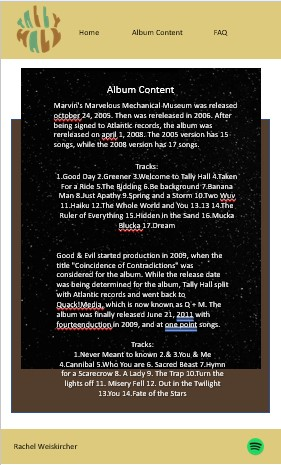
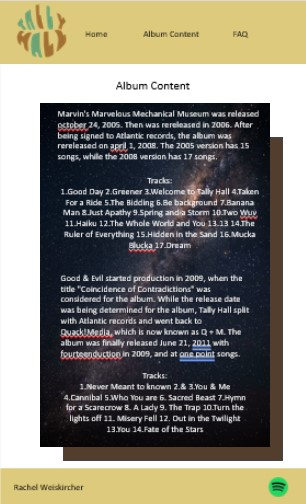
second page

diff --git a/tallyhall/album.html b/tallyhall/album.html
@@ -5,15 +5,15 @@
     <meta charset="UTF-8">
     <meta http-equiv="X-UA-Compatible" content="IE=edge">
     <meta name="viewport" content="width=device-width, initial-scale=1.0">
-    <title>Document</title>
+    <title>Album Content</title>
     <link rel="stylesheet" href="styles/styles.css">
 </head>
 <body>
     <header id="navbar">
-        <a href="index.html">
-            <img src="images/tally_hall_logo_3.jpg" alt="Tally Hall Logo">
+        <a  href="index.html">
+            <img class="logo" src="images/tally_hall_logo_1.png" alt="Tally Hall Logo">
         </a>
-        <nav>
+        <nav >
             <a href="index.html">Home</a>
             <a href="album.html">Album Content</a>
             <a href="faq.html">FAQ</a>
@@ -25,18 +25,63 @@
 
 
 
+<section class="box">
 <div class="album">
-<p>Marvin's Marvelous Mechanical Museum was released october 24, 2005. Then was rereleased in 2006. After being signed to Atlantic records, the album was rereleased on april 1, 2008. The 2005 version has 15 songs, while the 2008 version has 17 songs.</p>
-<h3 class="title">Tracks</h3>
-<p>1.Good Day 2.Greener 3.Welcome to Tally Hall 4.Taken For a Ride 5.The Bidding 6.Be background 7.Banana Man 8.Just Apathy 9.Spring and a Storm 10.Two Wuv 11.Haiku 12.The Whole World and You 13.13 14.The Ruler of Everthing 15.Hidden in the Sand 16.Mucka blucka 17.Dream</p>
 <p></p>
-<p>Good & Evil started production in 2009, and at one point the title "Coincidence of Contradictions" was considered for the album. While the release date was being determined for the album, Tally Hall split with Atlantic records and went back to Quack!Media, which is now known as Q + M. The album was finally released June 21, 2011 with fourteen songs.</p>
-<h3 class="title">Tracks</h3>
-<p>1.Never Meant to known 2.& 3.You & Me 4.Cannibal 5.Who You are 6. Sacred Beast 7.Hymn for a Scarecrow 8. A Lady 9. The Trap 10.Turn the lights off 11. Misery Fell 12. Out in the Twilight 13.You 14.Fate of the Stars</p>
-</div>
+    <p>Marvin's Marvelous Mechanical Museum was released October 24, 2005. Then was rereleased in 2006. After being signed to Atlantic records, the album was rereleased on april 1, 2008. The 2005 version has 15 songs, while the 2008 version has 17 songs.</p>
+<h3 class="tracks">Tracks</h3>
+<section class="track">
+<ol>
+    <li>Good Day </li>
+    <li>Greener</li>
+    <li>Welcome to Tally Hall</li>
+    <li>Taken For a Ride</li>
+    <li>The Bidding </li>
+    <li>Be Born </li>
+    <li>Banana Man </li>
+    <li>Just Apathy </li>
+    <li>Spring and a Storm</li>
+    <li>Two Wuv </li>
+    <li>Haiku </li>
+    <li>The Whole World and You </li>
+    <li>13</li>
+    <li>The Ruler of Everthing</li>
+    <li>Hidden in the Sand</li>
+    <li>Mucka blucka</li>
+    <li>Dream</li>
 
-<img class="space" src="images/brown.jpg" alt="brown background">
-<img class="brown" src="images/stars.jpg" alt="stars">
+</ol>
+</section>
+<p></p>
+<p> </p>
+<p>Good & Evil started production in 2009, and at one point the title "Coincidence of Contradictions" was considered for the album. While the release date was being determined for the album, Tally Hall split with Atlantic records and went back to Quack!Media, which is now known as Q + M. The album was finally released June 21, 2011 with fourteen songs.</p>
+<p></p>
+<h3 class="tracks">Tracks</h3>
+<section class="track">
+<ol>
+    <li>Never Meant to Know</li>
+    <li>&</li>
+    <li>You & Me</li>
+    <li>Cannibal</li>
+    <li>Who You Are</li>
+    <li>Sacred Beast</li>
+    <li>Hymn for a Scarecrow</li>
+    <li>The Trap</li>
+    <li>Turn the Lights Off</li>
+    <li>Misery Fell</li>
+    <li>Out in the Twilight</li>
+    <li>You</li>
+    <li>Fate of the Stars</li>
+</ol>
+
+</section>
+
+</div>
+<img class="space" src="images/stars_1.jpg" alt="stars">
+</section>
+
+
+
 
 
 <script>
@@ -55,14 +100,15 @@
     </script>
 
 
-    <footer>
-        <a href="site-plan.html">Site Plan</a>
-        <div class="social" >
-            <a href="https://open.spotify.com/artist/7lqaPghwYv2mE9baz5XQmL" target="_blank">
-                <img src="images/spotify_logo.png" alt="Tally Hall Spotify page">
-            </a>
-                
-        </div>
-    </footer>
+<footer>
+    <p>Rachel Weiskircher WDD130-14</p>
+    <a class="plan" href="site-plan.html" target="_blank">Site Plan</a>
+    <div class="social" >
+        <a href="https://open.spotify.com/artist/7lqaPghwYv2mE9baz5XQmL" target="_blank">
+            <img src="images/spotify_logo.png" alt="Tally Hall Spotify page">
+        </a>
+            
+    </div>
+</footer>
 </body>
 </html>

diff --git a/tallyhall/styles/styles.css b/tallyhall/styles/styles.css
@@ -96,8 +96,30 @@ p {
     
 }
 
-.home {
+.tracks {
+    color: white	;
+    font-size: 2em;
+    margin-top: 30px;
+    text-align: center;
+    font-family: "Poor Story", "Rubik Bubbles";
+
+}
+
+.track {
+    font-weight: bold;
+    text-shadow: 3px 3px black;
+}
+
+/* .home {
+    
     grid-template-columns: 1fr 1fr 1fr 1fr 1fr 1fr;
+} */
+
+.box {
+    display: grid;
+    grid-template-columns: 50px  1fr 1fr 1fr 1fr 1fr 1fr 1fr 50px;
+    grid-template-rows: 200px 1fr 1fr 200px ;
+    
 }
 
 
@@ -116,7 +138,86 @@ p {
     
 }
 
+.album {
 
+    /* line-height: 1.5em;
+    width: 75%;
+    padding: 35px;
+    color: white;
+    z-index: 3;
+    border: 5em;
+    position: absolute;
+    margin: 0 auto;
+ */
+        
+    line-height: 1.5em;
+    width: 75%;
+    padding: 35px;
+    grid-column: 3/8;
+    grid-row: 1/3;
+    color: white;
+    margin: 0 auto;
+    border: 5em;
+    z-index: 5;
+
+}
+
+.space {
+
+    /* z-index: 1;
+    width: 80%;
+    grid-column: 2/6;
+    margin: 0 auto; */
+
+
+    /* width: 90%;
+    grid-row: 1/2 ;
+    grid-column: 1/5;
+    margin: 0 auto;
+    border: 5px; */
+    height: 55%;
+    width: 70%;
+    grid-column: 1/10;
+    grid-row: 1/4;
+    margin: 0 auto;
+    border: 5em;
+    z-index: 2;
+    box-shadow:  20px 30px #533E2D;
+}
+
+ol {
+    columns: 2 6em;
+    padding: 35px;
+    font-family: "Zilla Slab", "Spectral" ;
+    margin: 0 auto;
+}
+
+.faq {
+    
+    line-height: 1.5em;
+    width: 75%;
+    padding: 35px;
+    grid-column: 3/4;
+
+    margin: 0 auto;
+    border: 5em;
+}
+
+/* .brun {
+    background-color: #533E2D;
+    color: #533E2D;
+    /* text-align: center;
+    grid-column: 1/8;
+    grid-row: 2/3; 
+
+    height: 67%;
+    width: 100%;
+    grid-column: 1/8;
+    grid-row: 2/8;
+    margin: 0 auto;
+ 
+    z-index: 1;
+} */
 
 .history {
     background-color: #DCE2C8;
@@ -134,6 +235,7 @@ p {
     overflow: hidden;
     background: rgba(162 , 112 , 53 , .7);
     font-family: "Zilla Slab", "Spectral";
+    z-index: 6;
  
   }
   
@@ -165,3 +267,30 @@ p {
     padding-top: 60px;
   }
   
+  @media screen and (max-width: 900px) {
+    .brown{
+        display: none;
+    }
+    .space {
+        display: none;
+    }
+    
+    .album{
+        color: black;
+        box-shadow: 5px 5px 10px #6f7364;
+        background-color: #DCE2C8;
+    }
+
+    .brun{
+        display: none;
+    }
+    .tracks {
+        color: #533E2D;
+    }
+    .track {
+        text-shadow: none;
+    }
+    ol{
+        columns: 1;
+    }
+  }

diff --git a/tallyhall/faq.html b/tallyhall/faq.html
@@ -8,18 +8,18 @@
     <meta charset="UTF-8">
     <meta http-equiv="X-UA-Compatible" content="IE=edge">
     <meta name="viewport" content="width=device-width, initial-scale=1.0">
-    <title>Document</title>
+    <title>faq</title>
+    <link rel="stylesheet" href="styles/styles.css">
 </head>
 <body>
     <header id="navbar">
-        <a href="index.html">
-            <img src="images/tally_hall_logo_3.jpg" alt="Tally Hall Logo">
+        <a  href="index.html">
+            <img class="logo" src="images/tally_hall_logo_1.png" alt="Tally Hall Logo">
         </a>
-        <nav>
+        <nav >
             <a href="index.html">Home</a>
             <a href="album.html">Album Content</a>
             <a href="faq.html">FAQ</a>
-            <link rel="stylesheet" href="styles/styles.css">
         </nav>
     </header>
 <div>
@@ -58,14 +58,15 @@
 
 
 
-    <footer>
-        <a href="site-plan.html">Site Plan</a>
-        <div class="social" >
-            <a href="https://open.spotify.com/artist/7lqaPghwYv2mE9baz5XQmL" target="_blank">
-                <img src="images/spotify_logo.png" alt="Tally Hall Spotify page">
-            </a>
-                
-        </div>
-    </footer>
+<footer>
+    <p>Rachel Weiskircher WDD130-14</p>
+    <a class="plan" href="site-plan.html" target="_blank">Site Plan</a>
+    <div class="social" >
+        <a href="https://open.spotify.com/artist/7lqaPghwYv2mE9baz5XQmL" target="_blank">
+            <img src="images/spotify_logo.png" alt="Tally Hall Spotify page">
+        </a>
+            
+    </div>
+</footer>
 </body>
 </html>

diff --git a/tallyhall/index.html b/tallyhall/index.html
@@ -56,15 +56,16 @@
     </script>
 
 </section>
-    <footer>
-        <p>Rachel Weiskircher WDD130-14</p>
-        <a class="plan" href="site-plan.html">Site Plan</a>
-        <div class="social" >
-            <a href="https://open.spotify.com/artist/7lqaPghwYv2mE9baz5XQmL" target="_blank">
-                <img src="images/spotify_logo.png" alt="Tally Hall Spotify page">
-            </a>
-                
-        </div>
-    </footer>
+<footer>
+    <p>Rachel Weiskircher WDD130-14</p>
+    <a class="plan" href="site-plan.html" target="_blank">Site Plan</a>
+    <div class="social" >
+        <a href="https://open.spotify.com/artist/7lqaPghwYv2mE9baz5XQmL" target="_blank">
+            <img src="images/spotify_logo.png" alt="Tally Hall Spotify page">
+        </a>
+            
+    </div>
+</footer>
 </body>
 </html>
+
